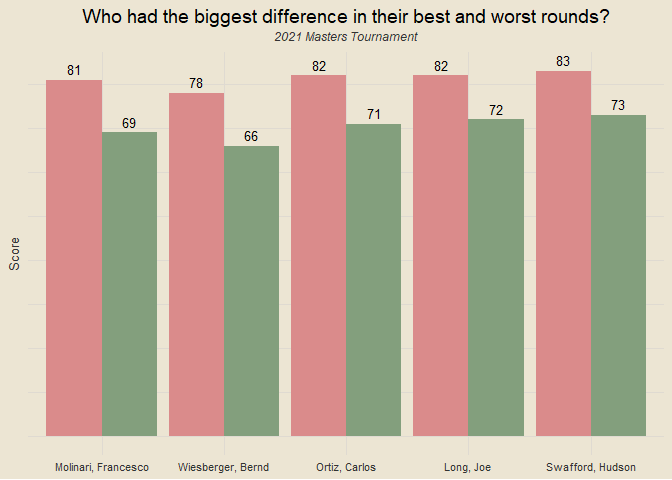
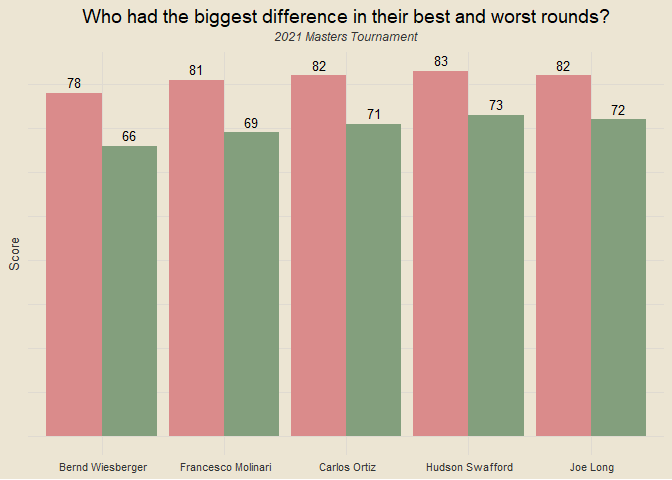
new commit

diff --git a/README.md b/README.md
@@ -43,7 +43,12 @@ View Code
 </summary>
 
 ``` r
-df = read_csv("data/masters_data_2021.csv", show_col_types = F)
+# changing player name to be (first + last) instead of (last, first)
+df = read_csv("data/masters_data_2021.csv", show_col_types = F) |>
+  separate(player_name, into = c("last_name", "first_name"), sep = ",") |>
+  mutate(player_name = paste(first_name, last_name)) |>
+  select(1:5, 31, 8:30)
+
 paste0("Data dimensions: ", nrow(df), " rows, ", ncol(df), " columns")
 ```
 
@@ -87,8 +92,8 @@ min_max_rounds |>
 
 **Plot Notes**
 
-- Francesco Molinari shot 81 in round 4 and 69 in round 3
 - Bernd Wiesberger shot 78 in round 4 and 66 in round 2
+- Francesco Molinari shot 81 in round 4 and 69 in round 3
 - Carlos Ortiz shot 82 in round 1 and 71 in round 2 (missed cut)
 - Joe Long shot 82 in round 1 and 72 in round 2 (missed cut)
 - Hudson Swafford shot 83 in round 2 and 73 in round 1 (missed cut)
@@ -233,3 +238,37 @@ the number of poor shots a player hit. In the plot, the dashed line
 represents the points where the number of great shots is equal to the
 number of poor shots a player hit - ideally, players want to be below
 this line, indicating they hit more great shots than poor shots.
+
+------------------------------------------------------------------------
+
+### Great Shots v Poor Shots
+
+Which players had the biggest difference in great and poor shots, in
+either direction?
+
+``` r
+n_threshold = 6
+
+df |>
+  filter(!is.na(great_shots) & !is.na(poor_shots)) |>
+  group_by(player_name) |>
+  summarise(great = sum(great_shots),
+            poor = sum(poor_shots)) |>
+  mutate(diff = great - poor) |>
+  slice_max(diff, n = n_threshold) |>
+  rbind(df |>
+  filter(!is.na(great_shots) & !is.na(poor_shots)) |>
+  group_by(player_name) |>
+  summarise(great = sum(great_shots),
+            poor = sum(poor_shots)) |>
+  mutate(diff = great - poor) |>
+  slice_min(diff, n = n_threshold)) |>
+  mutate(diff_col = ifelse(diff > 0, "good", "bad")) |>
+  ggplot(aes(reorder(player_name, diff), diff)) +
+  geom_col(aes(fill = diff_col), show.legend = F) +
+  coord_flip() +
+  scale_fill_manual(values = c(custom_red, custom_green)) +
+  labs(title = "THIS ONE IS STILL IN PROGRESS")
+```
+
+![](README_files/figure-gfm/unnamed-chunk-8-1.png)<!-- -->
